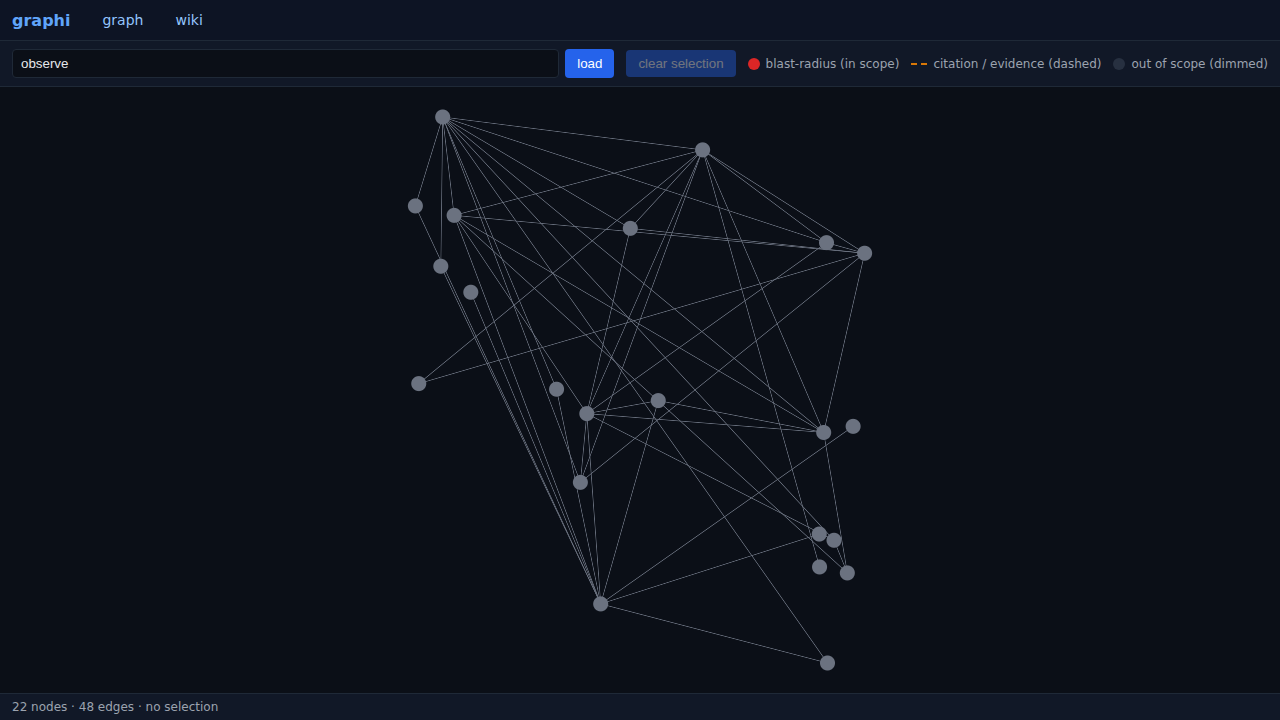
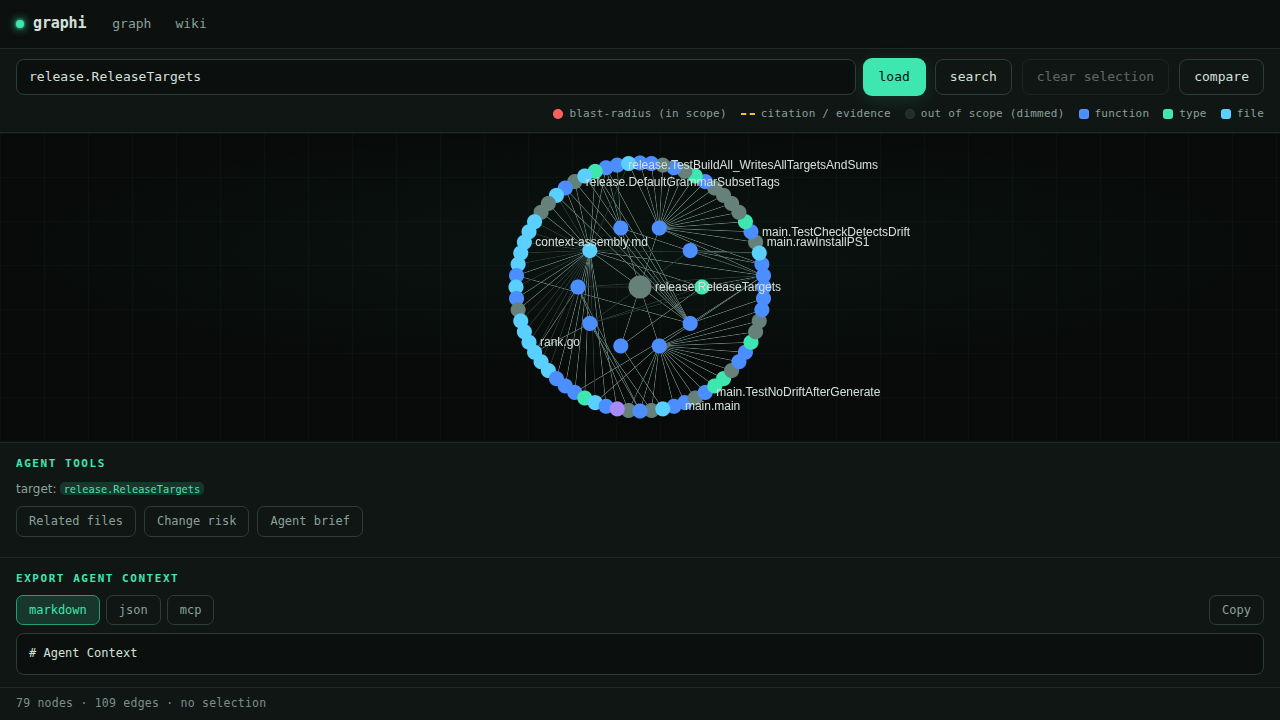
Cut 0.4.0: fresh UI screenshots, /wiki deep-link fix, changelog
Monkey-tested the web UI end-to-end (every toolbar/panel/nav button,
canvas click/shift-click/pan/zoom, candidate picker, wiki): the only real
defect found was that deep-linking or reloading /wiki in a bundled binary
served raw markdown bytes instead of the app. The wiki handlers now serve
the SPA shell for browser document navigations (Accept: text/html) while
data fetches (Accept: text/markdown) still get markdown, mirroring the
vite dev-server bypass; covered by a webui_embed test.

Refresh the readme/site screenshots to the redesigned UI (radial layout,
kind colors, terminal palette) and add a second readme shot of the
blast-radius selection state. Move the changelog entries into a 0.4.0
section so auto-release tags it once CI is green on main.

Claude-Session: https://claude.ai/code/session_016ZGxsQYGUQ59MXpAcjGtXf

diff --git a/surfaces/http/server_webui_test.go b/surfaces/http/server_webui_test.go
@@ -68,6 +68,48 @@ func TestSPA_ServesEmbeddedUI(t *testing.T) {
 	}
 }
 
+// TestWiki_BrowserNavigationServesSPA: a browser document navigation to /wiki*
+// (Accept: text/html) gets the SPA shell, while the client's data fetch
+// (Accept: text/markdown) still reaches the wiki markdown handler. Mirrors the
+// vite dev-server bypass so /wiki deep links / reloads land in the app.
+func TestWiki_BrowserNavigationServesSPA(t *testing.T) {
+	indexBytes, err := fs.ReadFile(webui.FS, "index.html")
+	if err != nil {
+		t.Fatalf("read embedded index.html: %v", err)
+	}
+
+	srv := New(nil, nil) // no wiki store attached
+	ts := httptest.NewServer(srv.Handler())
+	defer ts.Close()
+
+	getAccept := func(path, accept string) (*http.Response, string) {
+		t.Helper()
+		req, err := http.NewRequest(http.MethodGet, ts.URL+path, nil)
+		if err != nil {
+			t.Fatalf("new request: %v", err)
+		}
+		req.Header.Set("Accept", accept)
+		resp, err := http.DefaultClient.Do(req)
+		if err != nil {
+			t.Fatalf("GET %s: %v", path, err)
+		}
+		b, _ := io.ReadAll(resp.Body)
+		_ = resp.Body.Close()
+		return resp, string(b)
+	}
+
+	for _, path := range []string{"/wiki", "/wiki/c/1"} {
+		// Browser navigation → SPA shell, even though no wiki store is attached.
+		if resp, body := getAccept(path, "text/html,application/xhtml+xml"); resp.StatusCode != 200 || body != string(indexBytes) {
+			t.Fatalf("GET %s (Accept text/html) = %d, SPA shell=%v; want 200 + index.html", path, resp.StatusCode, body == string(indexBytes))
+		}
+		// Data fetch → wiki handler (404 here: wiki disabled without a store).
+		if resp, body := getAccept(path, "text/markdown"); resp.StatusCode != http.StatusNotFound || body == string(indexBytes) {
+			t.Fatalf("GET %s (Accept text/markdown) = %d, SPA shell=%v; want 404 from the wiki handler", path, resp.StatusCode, body == string(indexBytes))
+		}
+	}
+}
+
 // firstAsset returns the name of one real file under the embedded assets/ dir.
 func firstAsset(t *testing.T) string {
 	t.Helper()

diff --git a/surfaces/http/server.go b/surfaces/http/server.go
@@ -952,8 +952,24 @@ func (s *Server) wikiDoc() (wiki.Wiki, error) {
 	return s.wikiGenerated, s.wikiErr
 }
 
+// serveWikiSPA reports whether the request is a browser DOCUMENT navigation
+// (Accept: text/html) while the embedded UI is available; if so it serves the
+// SPA shell and returns true. This mirrors the vite dev-server /wiki bypass:
+// a deep link / page reload of /wiki* must land in the app (which then fetches
+// the data with Accept: text/markdown), not show raw markdown bytes.
+func serveWikiSPA(w http.ResponseWriter, r *http.Request) bool {
+	if !webui.Enabled() || !strings.Contains(r.Header.Get("Accept"), "text/html") {
+		return false
+	}
+	http.ServeFileFS(w, r, webui.FS, "index.html")
+	return true
+}
+
 // handleWikiIndex serves the wiki index page as Markdown (text/markdown).
 func (s *Server) handleWikiIndex(w http.ResponseWriter, r *http.Request) {
+	if serveWikiSPA(w, r) {
+		return
+	}
 	doc, err := s.wikiDoc()
 	if err != nil {
 		writeErr(w, http.StatusNotFound, "not_found", "wiki unavailable")
@@ -964,6 +980,9 @@ func (s *Server) handleWikiIndex(w http.ResponseWriter, r *http.Request) {
 
 // handleWikiPage serves one community page as Markdown. Unknown id → 404.
 func (s *Server) handleWikiPage(w http.ResponseWriter, r *http.Request) {
+	if serveWikiSPA(w, r) {
+		return
+	}
 	doc, err := s.wikiDoc()
 	if err != nil {
 		writeErr(w, http.StatusNotFound, "not_found", "wiki unavailable")

diff --git a/CHANGELOG.md b/CHANGELOG.md
@@ -7,6 +7,37 @@ and this project aims to follow [Semantic Versioning](https://semver.org/spec/v2
 
 ## [Unreleased]
 
+## [0.4.0] - 2026-07-05
+
+### Added
+- **Readable graph view.** Nodes in the web UI now carry their qualified name
+  as an on-canvas label (files show their basename) and are colored by symbol
+  kind (function, method, type, file, package, variable — see the legend);
+  edges are labeled with their relationship kind ("calls", "references", …).
+- **Deterministic radial layout.** The seed symbol sits at the center with one
+  ring per hop (direct neighbors on ring 1, depth-2 nodes on ring 2). Positions
+  are stable: an SSE refresh of the same graph no longer re-scrambles the view
+  (previously every node landed at a fresh random position).
+- The web UI adopts the site's terminal design system: deep green-charcoal
+  palette, phosphor-teal primary, monospace chrome, and a dark node-hover
+  label (Sigma's stock white box was unreadable on the dark canvas).
+
+### Fixed
+- **Clicking a node no longer white-screens the app.** Selecting a symbol
+  (compare off) applied the citation highlight with the Sigma edge type
+  `"dashed"`, which Sigma v3 has no program for — the render threw and
+  unmounted the whole page. Citation edges are now amber + thicker, and a new
+  error boundary contains any future canvas failure to an inline message with
+  a retry button instead of a blank page.
+- Edge clicks now work: graph edges are keyed by their payload id, so the
+  "why connected" panel can actually resolve the clicked edge (the previous
+  auto-generated keys never matched and the click was silently dropped).
+- Deep-linking or reloading `/wiki` (and `/wiki/c/{id}`) in a bundled binary
+  now serves the app instead of raw markdown bytes: browser document
+  navigations (`Accept: text/html`) get the SPA shell, while the client's
+  data fetches (`Accept: text/markdown`) still receive markdown — matching
+  the vite dev-server behavior.
+
 ## [0.3.0] - 2026-07-05
 
 ### Added

diff --git a/readme.md b/readme.md
@@ -66,7 +66,15 @@ box / over SSH (or with `--no-browser` / `GRAPHI_NO_BROWSER`), graphi prints the
 local URL instead of opening a browser.
 
 <p align="center">
-  <img src="docs/assets/graph-ui.png" alt="graphi web UI — interactive code graph loaded from a seed-symbol search" width="900" />
+  <img src="docs/assets/graph-ui.png" alt="graphi web UI — interactive code graph loaded from a seed-symbol search, radial layout with per-kind node colors" width="900" />
+</p>
+
+Click any node to see its blast radius: impacted symbols light up red, the
+evidence-bearing (citation) edges amber, and everything out of scope dims —
+while the agent-context export below fills with the selection.
+
+<p align="center">
+  <img src="docs/assets/graph-ui-selection.png" alt="graphi web UI — a selected symbol with blast-radius and citation highlights and the agent context export" width="900" />
 </p>
 
 ### Everyday use